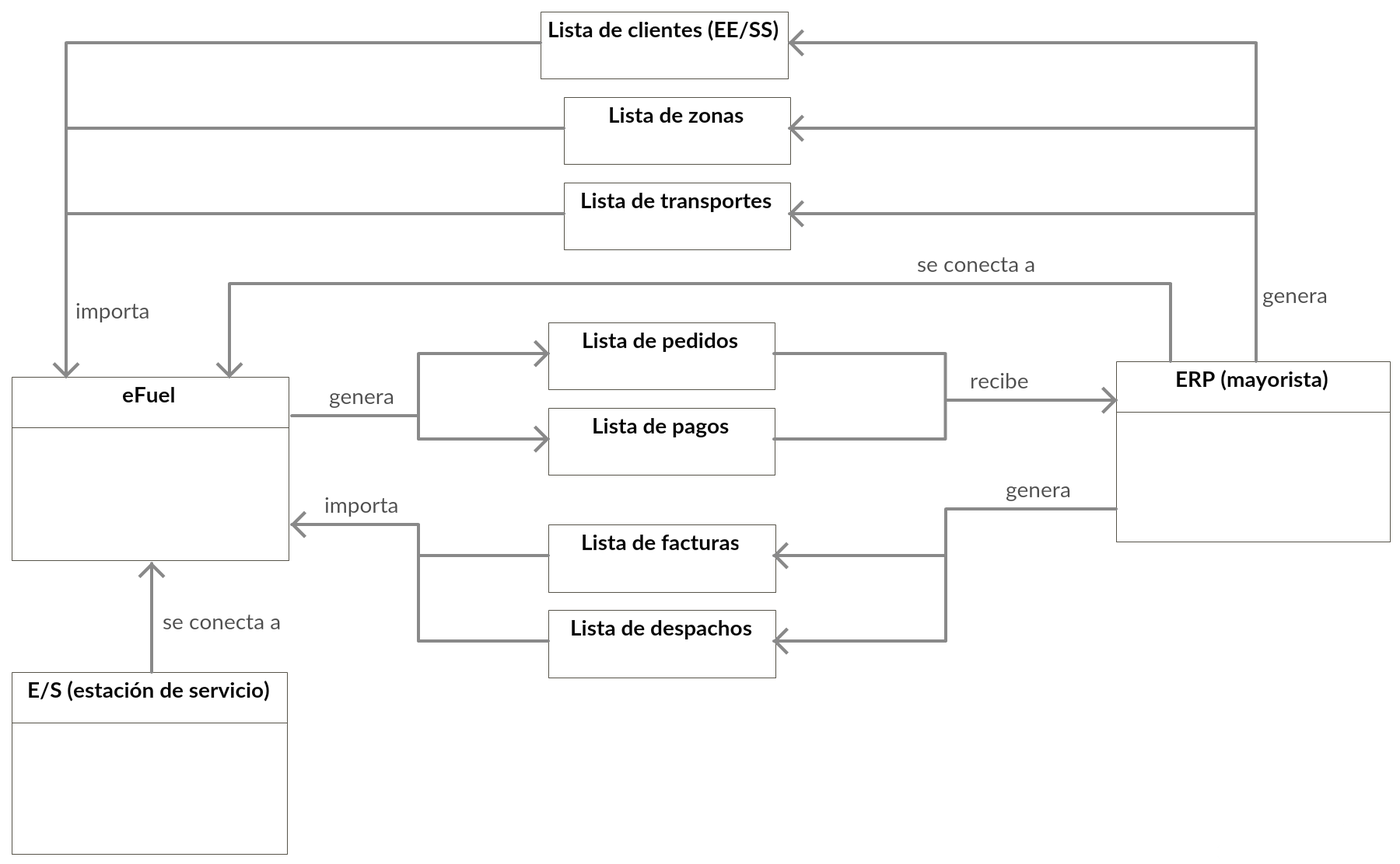
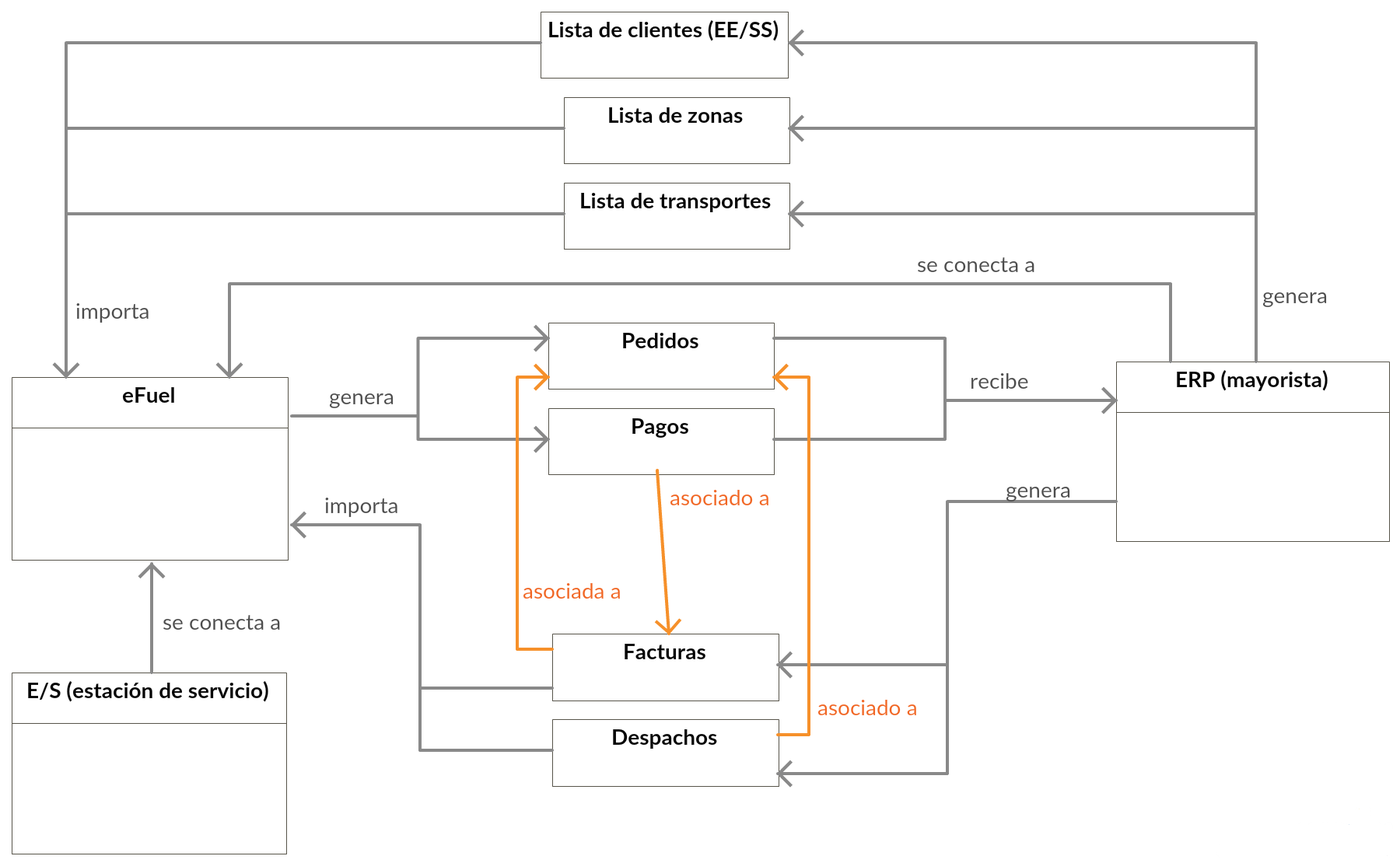
adelante

diff --git a/libro/capitulo-5.tex b/libro/capitulo-5.tex
@@ -1,25 +1,58 @@
 \chapter{Desarrollo} \label{development}
-En este capítulo se describe el desarrollo del proyecto. El desarrollo se divide en 7 fases: una fase de inducción donde el pasante se familiarizó con las herramientas y tecnologías necesarias para realizar el proyecto, 6 Iteraciones de desarrollo y una última Iteración de documentación del proyecto.
+En este capítulo se describe la aplicación web eFuel con sus módulos y funcionalidades, luego se narra cómo fue el desarrollo del proyecto. El desarrollo se divide en 3 fases: una fase de inducción donde el pasante se familiarizó con las herramientas y tecnologías necesarias para realizar el proyecto, una fase de desarrollo que consta de 6 Iteraciones de Scrum y una última fase de documentación.
 
-Hay que destacar que la documentación de la arquitectura se realizó luego de culminado el desarrollo, al contrario de realizarla antes de empezar el desarrollo, que es lo que se considera como buena práctica. Esto generó algunos inconvenientes y retrasos que no permitieron la culminación del módulo de funcionalidad encargado de manejar los pagos y las facturas del sistema (ver la sección \ref{useCases} para los casos de uso desarrollados y no desarrollados). A continuación el detalle de cada fase e Iteración.
+A continuación la descripción de la aplicación seguido de las fases del desarrollo de la misma durante el proyecto de pasantía.
 
 \section{La aplicación web eFuel}
-El objetivo del proyecto es desarrollar una nueva versión de la aplicación web eFuel. La primera versión fue desarrollada hace más de 10 años utilizando Classic ASP, un motor de scripting para servidores cuya última versión fue desarrollada en el año 2000. Classic ASP fue reemplazada por ASP.NET en el año 2002, por esta razón se desea desarrollar una versión de la aplicación basada en tecnologías modernas como ASP.NET y Umbraco (que está basado en ASP.NET). La documentación de esta primera versión
+\subsection{Versión original de eFuel}
+Una primera versión de eFuel fue desarrollada por la empresa anteriormente y estaba  conformada por 4 módulos básicos:
 
-eFuel es una aplicación web que permite a las estaciones de servicio de combustible la colocación de sus pedidos al mayorista. La aplicación permite consultar información del estado de los pedidos (si fueron despachados y si fueron pagados), asociar facturas a pedidos y asociar pagos a facturas, también permite consultar información sobre otras entidades del dominio de negocio como clientes (estaciones de servicio), transportes disponibles según la zona del cliente, productos disponibles y sus precios. Además, permite importar y exportar información para intercambiar con el sistema ERP del mayorista y, de esta manera, servir como sistema de apoyo para este.
+\begin{itemize}
+    \item \emph{Seguridad}: controlaba el acceso a laaplicación y sus datos.
+    \item \emph{Pedidos}: inserción de pedidos de combustible.
+    \item \emph{Pagos}: operaba como auxiliar contable del sistema de facturación interno de la organización (mayorista). 
+    \item \emph{Datos}: ofrecía la posibilidad de activar y desactivar registros correspondientes a clientes, productos y otros parámetros no disponibles en el ERP de la organización. Adicionalmente poseía una bitácora que registraba las operaciones realizadas en el sistema.
+\end{itemize}
 
-A continuación se presenta una visión general de la estructura de eFuel.
+Esta versión fue desarrollada hace más de 10 años utilizando Classic ASP, un motor de scripting para servidores cuya última versión fue desarrollada en el año 2000. Classic ASP fue reemplazada por ASP.NET en el año 2002, por esta razón no se pudo replicar la instalación de esta versión.
 
-\section{Inducción}
+Para este proyecto se desea desarrollar una versión de la aplicación web eFuel basada en tecnologías modernas como ASP.NET y Umbraco. Se usaron documentos de la versión original para guiar el desarrollo de la nueva versión de eFuel, especialmente en el diseño de las entidades de la base datos y en las funcionalidades generales (módulos) del sistema.
+
+\subsection{Nueva versión de eFuel}
+La nueva versión de eFuel desarrollada para este proyecto es una aplicación web que permite a las estaciones de servicio de combustible la colocación de sus pedidos al mayorista. La aplicación permite consultar información del estado de los pedidos (si fueron despachados y si fueron pagados), asociar facturas a pedidos y asociar pagos a facturas, también permite consultar información sobre otras entidades del dominio de negocio como clientes (estaciones de servicio), transportes disponibles según la zona del cliente, productos disponibles y sus precios. Además, permite importar y exportar información para intercambiar con el sistema ERP del mayorista y, de esta manera, servir como sistema de apoyo para este.
+
+\subsubsection{Módulos de funcionalidad}
+El sistema se puede descomponer en 4 módulos de funcionalidad: Pedidos, Pagos, Administración y Seguridad. A continuación una breve descripción de las funcionalidades de cada módulo:
+
+\begin{itemize}
+    \item \emph{Pedidos}: módulo para la gestión de pedidos. Al crear un pedido se brinda la facilidad de seleccionar rápidamente la combinación de cliente-fecha-turno-transporte-productos. También permite mostrar un listado de los pedidos, filtrar la lista por cliente, transporte, rango de fecha o estado, y luego exportarla como un archivo de Excel. 
+    \item \emph{Pagos}: módulo para la gestión de pagos y facturas. Con este módulo se pueden importar facturas desde un archivo de Excel generado por el sistema ERP del mayorista, estas se asocian inmediatamente con un pedido. También se pueden gestionar los pagos, asociar pagos a facturas y exportarlos a un archivo de Excel.
+    \item \emph{Administración}: módulo para la gestión de clientes, transportes, productos, zonas y turnos. Esto incluye creación, edición, consulta, listado, importación y eliminación de estas entidades del sistema.
+    \item \emph{Seguridad}: este módulo controla el acceso a la aplicación para garantizar que únicamente las personas autorizadas puedan consultar los datos y realizar las operaciones que les corresponden. Se pueden crear y editar miebros, así como modificar los permisos de cada uno.
+\end{itemize}
+
+En la figura \ref{fig:esquema_general_nuevo} se muestra el esquema general del sistema.
+
+\begin{figure}[ht]
+    \includegraphics[width=\textwidth]{esquema_general_nuevo.png}
+    \caption{Esquema general de los módulos de funcionalidad}
+    \label{fig:esquema_general_nuevo}
+    \centering
+\end{figure}
+
+Uno de los objetivos de la aplicación es servir como sistema de apoyo a los ERP de los mayoristas. Los sistemas ERP llevan el control de todas las entidades del negocio, entre estas están las estaciones de servicio, los transportes para los pedidos, los pedidos, las facturas, etc. La aplicación eFuel interactúa con el sistema ERP y le sirve de apoyo a este manteniendo un registro separado de las entidades pertinentes a la inserción y el pago de pedidos de combustible. Esta interacción se da a través de importaciones y exportaciones de datos entre estos sistemas para que estén sincronizados. En la figura \ref{fig:domain_model} se describe esta interacción con el sistema ERP.
+
+\section{Fases del desarrollo}
+\subsection{Fase de Inducción}
 Esta fase tuvo una duración de 1 semana, el pasante realizó varios tutoriales y utilizó varios recursos (guías de Umbraco, videos de ASP.NET, entre otros) proporcionados por la empresa para inducir los conocimientos técnicos necesarios para llevar a cabo el proyecto. Las herramientas investigadas fueron: Umbraco, ASP.NET, SQL Server y Visual Studio.
 
 Aunque esta fase estuvo exclusivamente dedicada al aprendizaje hay que remarcar que, durante toda la pasantía, el pasante adquirió nuevas destrezas que fueron necesarias y facilitaron el desarrollo del proyecto. Una vez culminada esta fase se empezó el desarrollo de la aplicación.
 
 
-\section{Desarrollo}
+\subsection{Fase de Desarrollo}
 Esta fase duró 16 semanas continuas y se llevaron a cabo 6 Iteraciones donde se desarrolló la aplicación. A continuación una descripción del trabajo realizado en cada iteración.
 
-\subsection{Análisis de requerimientos (1era Iteración)}
+\subsubsection{Análisis de requerimientos (1era Iteración)}
 Se definió el alcance inicial del proyecto, la arquitectura y la estructura de la base de datos. Además, se creó el repositorio de Git, el proyecto de Visual Studio y el sitio de Umbraco, y por otro lado, se eligió una plantilla de HTML para el \emph{look and feel} de la aplicación.
 
 \textbf{Actividades realizadas:}
@@ -37,7 +70,7 @@ Se definió el alcance inicial del proyecto, la arquitectura y la estructura de 
 
 \textbf{Duración:} 2 semanas.
 
-\subsection{Módulo de Administración (2da Iteración)}
+\subsubsection{Módulo de Administración (2da Iteración)}
 Se implementó la funcionalidad de manejo de las entidades principales de la aplicación: clientes, productos, transportes, zonas, turnos, pedidos, facturas y cobros. Para esto se implementó una interfaz en el back end de Umbraco usando Fluidity y se definieron los Doctypes y Datatypes de las entidades a ser almacenadas como contenido de Umbraco. También se empezó el desarrollo del front end de la aplicación. Al finalizar esta Iteración se tuvo una forma de manejar las entidades del sistema, ya sea a través del árbol de contenido de Umbraco o a través de la interfaz de Fluidity.
 
 \textbf{Actividades realizadas:}
@@ -50,7 +83,7 @@ Se implementó la funcionalidad de manejo de las entidades principales de la apl
 
 \textbf{Duración:} 3 semanas.
 
-\subsection{Módulo de Pedidos (3ra Iteración)}
+\subsubsection{Módulo de Pedidos (3ra Iteración)}
 Esta Iteración estuvo dedicada al desarrollo de la funcionalidad referente a los pedidos de combustible. Se desarrolló el listado de pedido con filtros, el formulario de creación de pedidos y la exportación de la lista de pedidos.
 
 \textbf{Actividades realizadas:}
@@ -63,7 +96,7 @@ Esta Iteración estuvo dedicada al desarrollo de la funcionalidad referente a lo
 
 \textbf{Duración:} 2 semanas.
 
-\subsection{Refactorización (4ta Iteración)}
+\subsubsection{Refactorización (4ta Iteración)}
 En esta Iteración se determinó que la implementación de la funcionalidad desarrollada hasta ahora no estaba siguiendo la estructura de la solución de Visual Studio, es decir, los controladores no estaban bien organizados según el patrón MVC (como lo implementa ASP.NET) y que además había funcionalidad que debería estar implementada en \verb|EF_API| pero que estaba en \verb|EF_Core| y usando el tipo de controlador incorrecto. Esto se debió a un a falta de comunicación entre el dueño del producto y el pasante. Se realizaron las correcciones necesarias, esto tomó tiempo que no pudo ser invertido en el desarrollo de unos de los módulos planteados en el plan de trabajo original (Módulo de conciliación de pagos), en consecuencia, los casos de uso de este módulo quedaron parcialmente implementados.
 
 \textbf{Actividades realizadas:}
@@ -75,7 +108,7 @@ En esta Iteración se determinó que la implementación de la funcionalidad desa
 
 \textbf{Duración:} 3 semanas.
 
-\subsection{Continuación con el Módulo de Pedidos (5ta Iteración)}
+\subsubsection{Continuación con el Módulo de Pedidos (5ta Iteración)}
 En esta Iteración se continuó el desarrollo de la funcionalidad referente a los pedidos del sistema y se mejoraron algunos aspectos implementados en las otras Iteraciones.
 
 \textbf{Actividades realizadas:}
@@ -87,7 +120,7 @@ En esta Iteración se continuó el desarrollo de la funcionalidad referente a lo
 
 \textbf{Duración:} 3 semanas.
 
-\subsection{Módulo de Manejo de Usuarios e importación (6ta Iteración)}
+\subsubsection{Módulo de Manejo de Usuarios e importación (6ta Iteración)}
 Esta fue la última Iteración de desarrollo, en ella se desarrollo el módulo de manejo de usuarios y se implementó la funcionalidad de importación de algunas entidades. También se mejoraron todos los aspectos que fueron posibles del código.
 
 \textbf{Actividades realizadas:}
@@ -101,5 +134,22 @@ Esta fue la última Iteración de desarrollo, en ella se desarrollo el módulo d
 
 \textbf{Duración:} 3 semanas.
 
-\section{Documentación} \label{documentation}
-Esta fase duró el resto de las 20 semanas totales de la pasantía. En ella se documentó el estado final de la aplicación, se elaboró un Documento de Arquitectura de Software donde se detallan los componentes y casos de uso desarrollados de la aplicación y, además, se elaboró una guía de instalación de eFuel (ver apéndice \ref{installation}). En total esto llevo 3 semanas de la pasantía y algunas extra después de culminada.
+\subsection{Fase de Documentación} \label{documentation}
+Esta fase duró el resto de las 20 semanas totales de la pasantía. En ella se documentó el estado final de la aplicación, se elaboró un Documento de Arquitectura de Software donde se detallan los componentes y casos de uso desarrollados de la aplicación y, además, se elaboró una guía de instalación de eFuel (ver apéndice \ref{installationGuide}). En total esto llevo 3 semanas de la pasantía y algunas extra después de culminada.
+
+\subsubsection{Arquitectura del sistema}
+A continuación se muestran el Modelo de Dominio y el Diagrama de Componentes del sistema que ayudan a describir la arquitectura del mismo y que fueron parte del trabajo realizado durante la fase de documentación (ver sección \ref{documentation}). El Modelo de Dominio ayuda a entender la relación de eFuel con el sistema ERP del mayorista. Por otro lado, el Diagrama de Componentes refleja como fue utilizado el patrón MVC en la arquitectura del sistema. Para una decripción detallada de la arquitectura del sistema referirse al anexo \ref{das}, donde se encuentra el Documento de Arquitectura de Software de eFuel.
+
+\begin{figure}[H]
+    \includegraphics[width=\textwidth]{domain_model.png}
+    \caption{Modelo de dominio de eFuel}
+    \label{fig:domain_model}
+    \centering
+\end{figure}
+
+\begin{figure}[H]
+    \includegraphics[width=\textwidth]{component_diagram.png}
+    \caption{Diagrama de Componentes de eFuel}
+    \label{fig:component_diagram}
+    \centering
+\end{figure}

diff --git a/libro/capitulo-6.tex b/libro/capitulo-6.tex
@@ -1,62 +1,119 @@
 \chapter{Resultados} \label{results}
-En este capítulo se presenta el estado en el que quedó la aplicación eFuel al finalizar el desarrollo. Se completó el 92\% de los casos de uso que tiene el sistema actualmente. No se realizaron pruebas de ningún tipo salvo por demostraciones del funcionamiento en una instalación local, sin embargo, el dueño del producto quedó satisfecho con el trabajo realizado y se espera que el desarrollo continue en el futuro. A continuación se presenta el diagrama de casos de uso y un resumen de la funcionalidad que posee el sistema actualmente. Además, se presentan 2 diagramas para ayudar a describir la estructura del sistema: Modelo de Dominio y el Diagrama de Componentes. Para información detallada del funcionamiento e implementación del sistema referirse al Documento de Arquitectura de Software (anexo \ref{das}).
+En este capítulo se presenta el estado en el que quedó la aplicación eFuel al finalizar el desarrollo.
 
-\section{Casos de Uso} \label{useCases}
-En los siguientes diagramas se muestran en color verde los casos de uso que fueron implementados.
+Se completó el xx\% de los casos de uso que tiene el sistema actualmente. Esto se debió a varios factores. Primero...
 
-\begin{figure}[H]
-    \includegraphics[width=\textwidth]{cu_admin_implementados.png}
-    \caption{Casos de Uso back end (\emph{admin})}
-    \label{fig:cu_admin_implementados}
-    \centering
-\end{figure}
-
-\begin{figure}[H]
-    \includegraphics[width=\textwidth]{cu_customer_staff_implementados.png}
-    \caption{Casos de Uso front end (\emph{customer} y \emph{staff})}
-    \label{fig:cu_customer_staff_implementados}
-    \centering
-\end{figure}
+No se realizaron pruebas unitarias ni de integración debido a los atrasos con el desarrollo de las funcionalidades principales. Se determinó que las pruebas no eran prioritarias, era preferible implementar la mayor cantidad de funcionalidades restantes, ésta fue una decisión tomada en conjunto con el tutor industrial. Sin embargo, si se realizaron demostraciones del funcionamiento en varias máquinas instalando el sitio localmente.
 
 \section{Estado actual de la aplicación}
-Como resultado del desarrollo del proyecto se obtuvo una aplicación web desarrollada nuevamente que funciona como un agregado a un sitio de Umbraco y que contiene, casi en su totalidad, las funcionalidades requeridas por el dueño del producto. No se ha desplegado la aplicación en un ambiente de producción, solo fue probada en varias instalaciones locales, a pesar de esto el dueño del producto quedó satisfecho con los resultados obtenidos. Sigue un resumen de la funcionalidad que tiene la aplicación, dividido en partes: funcionalidad en el front end de eFuel y funcionalidad en el back end de Umbraco.
+Como resultado del desarrollo del proyecto se obtuvo una versión funcional de la aplicación web eFuel que abarca el xx\% de los casos de uso estipulados. Este alcance fue acordado por la empresa y el pasante, la empresa quedó satisfecha con el trabajo realizado. En la tabla \ref{tab:casosDeUso} se muestranlos casos de uso del sistema y se resaltan los que fueron implementados.
+
+\newcounter{magicrownumbers}
+\newcommand\rownumber{\stepcounter{magicrownumbers}\arabic{magicrownumbers}}
+
+\begin{longtable}{ | l | l | c | }
+    \hline
+    % \rowcolor{gray!30}
+    \multicolumn{1}{|c|}{ID del Caso de Uso} &
+    \multicolumn{1}{|c|}{Caso de Uso} &
+    \multicolumn{1}{|c|}{Actor} \\
+    \hhline{===}
+    \endhead
+
+    CU-\rownumber & Iniciar sesión (Umbraco) & Admin \\ \hline
+    CU-\rownumber & Consultar lista de miembros & Admin \\ \hline
+    CU-\rownumber & Gestionar miembro (CRUD) & Admin \\ \hline
+    CU-\rownumber & Asignar cliente/s a miembro & Admin \\ \hline
+    CU-\rownumber & Remover cliente/s de miembro & Admin \\ \hline
+    CU-\rownumber & Cambiar permisos de miembro & Admin \\ \hline
+
+    CU-\rownumber & Gestionar contenido & Admin \\ \hline
+    CU-\rownumber & Consultar lista de clientes & Admin \\ \hline
+    CU-\rownumber & Gestionar cliente (CRUD) & Admin \\ \hline
+    CU-\rownumber & Consultar lista de productos & Admin \\ \hline
+    CU-\rownumber & Gestionar producto (CRUD) & Admin \\ \hline
+    CU-\rownumber & Consultar lista de transportes & Admin \\ \hline
+    CU-\rownumber & Gestionar transportes (CRUD) & Admin \\ \hline
+    CU-\rownumber & Consultar lista de zonas & Admin \\ \hline
+    CU-\rownumber & Gestionar zonas (CRUD) & Admin \\ \hline
+
+    CU-\rownumber & Gestionar transacciones & Admin \\ \hline
+    CU-\rownumber & Consultar lista de registros & Admin \\ \hline
+    CU-\rownumber & Gestionar registro (CRUD) & Admin \\ \hline
+    CU-\rownumber & Consultar lista de pedidos & Admin \\ \hline
+    CU-\rownumber & Gestionar pedido (CRUD) & Admin \\ \hline
+    CU-\rownumber & Consultar lista de detalles de pedidos & Admin \\ \hline
+    CU-\rownumber & Gestionar detalle de pedido (CRUD) & Admin \\ \hline
+    CU-\rownumber & Consultar lista de facturas & Admin \\ \hline
+    CU-\rownumber & Gestionar factura (CRUD) & Admin \\ \hline
+    CU-\rownumber & Importar lista de facturas & Staff \\ \hline
+    CU-\rownumber & Reportar pago & Customer, Staff \\ \hline
+    CU-\rownumber & Consultar lista de cobros & Admin \\ \hline
+    CU-\rownumber & Gestionar cobro (CRUD) & Admin \\ \hline
+    CU-\rownumber & Consultar lista de detalles de cobros & Admin \\ \hline
+    CU-\rownumber & Gestionar detalle de cobro (CRUD) & Admin \\ \hline
+
+    CU-\rownumber & Iniciar sesión (eFuel) & Customer, Staff \\ \hline
+    CU-\rownumber & Consultar lista de pedidos & Customer, Staff \\ \hline
+    CU-\rownumber & Consultar pedido & Customer, Staff \\ \hline
+    CU-\rownumber & Filtrar lista de pedidos & Customer, Staff \\ \hline
+    CU-\rownumber & Exportar lista de pedidos & Customer, Staff \\ \hline
+    CU-\rownumber & Crear pedido & Customer, Staff \\ \hline
+    CU-\rownumber & Seleccionar cliente & Customer, Staff \\ \hline
+    CU-\rownumber & Seleccionar fecha & Customer, Staff \\ \hline
+    CU-\rownumber & Seleccionar turno  & Customer, Staff \\ \hline
+    CU-\rownumber & Seleccionar transporte  & Customer, Staff \\ \hline
+    CU-\rownumber & Seleccionar productos & Customer, Staff \\ \hline
+
+    CU-\rownumber & Consultar lista de facturas & Customer, Staff \\ \hline
+
+    CU-\rownumber & Consultar lista de clientes & Customer, Staff \\ \hline
+    CU-\rownumber & Consultar cliente & Customer, Staff \\ \hline
+    CU-\rownumber & Consultar pedidos de cliente & Customer, Staff \\ \hline
+    CU-\rownumber & Importar lista de clientes & Staff \\
+    \hline
+
+    CU-\rownumber & Consultar lista de transportes & Customer, Staff \\ \hline
+
+    CU-\rownumber & Importar lista de transportes & Staff \\ \hline
+
+    CU-\rownumber & Consultar lista de zonas & Customer, Staff \\ \hline
+
+    CU-\rownumber & Importar lista de zonas & Staff \\
+    \hline
+
+    CU-\rownumber & Importar lista de despachos & Staff \\
+    \hline
+
+    CU-\rownumber & Reportar pagos & Customer, Staff \\
+    \hline
+
+    \caption{Resumen de casos de uso eFuel (en verde los implementados)}
+    \label{tab:casosDeUso}
+\end{longtable}
+
+La aplicación desarrollada nuevamente que funciona como un agregado a un sitio de Umbraco. No se ha desplegado en un ambiente de producción, solo fue probada en varias instalaciones locales, a pesar de esto el dueño del producto quedó satisfecho con los resultados obtenidos. Sigue un resumen de la funcionalidad por módulos desarrollada, dividido en partes: funcionalidad en el front end de eFuel y funcionalidad en el back office de Umbraco.
 
 \subsection{Funcionalidad en el front end}
 \begin{itemize}
-    \item Creación de pedidos según la disponibilidad de transportes, fechas y turnos para un cliente.
-    \item Listado de pedidos con filtros por cliente, rango de fecha, transporte y estado.
-    \item Exportación de un listado de pedidos con filtros aplicados.
-    \item Listado de clientes, transportes, zonas y facturas.
-    \item Vista de detalles de un cliente.
-    \item Importación de lista de transportes y zonas.
+    \item \emph{Seguridad}: inicio de sesión con credenciales.
+    
+    \item \emph{Pedidos}: creación de pedidos según la disponibilidad de transportes, fechas y turnos para un cliente; listado de pedidos con filtros por cliente, rango de fecha, transporte y estado; exportación de un listado de pedidos con filtros aplicados.
+
+    \item \emph{Pagos}: listado de facturas.
+    
+    \item \emph{Administración}: listado de clientes, transportes y zonas; vista de detalles de un cliente; importación de lista de transportes y zonas.
 \end{itemize}
 
-\subsection{Funcionalidad en el back end de Umbraco}
+\subsection{Funcionalidad en el back office de Umbraco}
 \begin{itemize}
-    \item Listado de clientes, transportes, zonas, turnos y productos.
-    \item Administración (creación, edición, vista de detalles y eliminación) de clientes, transportes, zonas, turnos y productos.
-    \item Listado de pedidos, facturas y cobros.
-    \item Administración (creación, edición, vista de detalles y eliminación) de pedidos, facturas y cobros.
-    \item Administración (creación, edición, detalles, eliminación y permisos) de miembros de eFuel.
+    \item \emph{Seguridad}: inicio de sesión con credenciales; administración (creación, edición, detalles, eliminación y permisos) de miembros de eFuel.
+    
+    \item \emph{Pedidos}: listado de pedidos; administración (creación, edición, vista de detalles y eliminación) de pedidos.
+    
+    \item \emph{Pagos}: listado de facturas y cobros; administración (creación, edición, vista de detalles y eliminación) de facturas y cobros.
+    
+    \item \emph{Administración}: listado de clientes, transportes, zonas, turnos y productos; administración (creación, edición, vista de detalles y eliminación) de clientes, transportes, zonas, turnos y productos.
 \end{itemize}
 
 En el anexo \ref{vistas} se encuentran las capturas de pantalla de las funcionalidades enumeradas en esta sección.
-
-\section{Arquitectura del sistema}
-A continuación se muestran el Modelo de Dominio y el Diagrama de Componentes del sistema que ayudan a describir la arquitectura del mismo y que fueron parte del trabajo realizado durante la fase de documentación (ver sección \ref{documentation}). El Modelo de Dominio ayuda a entender la relación de eFuel con el sistema ERP del mayorista. Por otro lado, el Diagrama de Componentes refleja como fue utilizado el patrón MVC en la arquitectura del sistema. Para una decripción detallada de la arquitectura del sistema referirse al anexo \ref{das}, donde se encuentra el Documento de Arquitectura de Software de eFuel.
-
-\subsection{Modelo de Dominio}
-\begin{figure}[H]
-    \includegraphics[width=\textwidth]{domain_model.png}
-    \caption{Modelo de Dominio de eFuel}
-    \label{fig:domain_model}
-    \centering
-\end{figure}
-
-\subsection{Diagrama de Componentes}
-\begin{figure}[H]
-    \includegraphics[width=\textwidth]{component_diagram.png}
-    \caption{Diagrama de Componentes de eFuel}
-    \label{fig:domain_model}
-    \centering
-\end{figure}

diff --git a/libro/conclusion.tex b/libro/conclusion.tex
@@ -1,12 +1,11 @@
 \chapter*{Conclusiones y Recomendaciones}
-Las conclusiones a continuación resumen los resultados y hallazgos más relevantes obtenidos durante el proyecto de pasantía:
+Durante el desarrollo hubo algunos retrasos y refactorizaciones en el código (de hecho no se pudo completar la funcionalidad del módulo de conciliación de pagos), esto se debe a 2 factores: la falta de documentación formal al inicio del proyecto y a algunas fallas de comunicación por parte del duaño del producto y del pasante. Sabiendo esto, hay que resaltar la importancia de generar documentos que ayuden a plasmar una visión del sistema para que todos los actores tengan claro qué hace el sistema y cómo se espera que lo haga, de esta manera el desarrollo será más fluido.
 
-\begin{itemize}
-    \item Se desarrolló una versión funcional de la aplicación web eFuel que abarca el 92\% de los casos de uso estipulados. Este alcance fue acordado por la empresa y el pasante, la empresa quedó satisfecha con el trabajo realizado.
-    \item La aplicación funciona como un agregado a un sitio de Umbraco genérico, es decir, si se tiene un sitio un sitio de Umbraco montado en un servidor se puede instalar eFuel junto con este sitio sin interferir con el funcionamiento de este.
-    \item Durante el desarrollo hubo algunos retrasos y refactorizaciones en el código (de hecho no se pudo completar la funcionalidad del módulo de conciliación de pagos), esto se debe a 2 factores: la falta de documentación formal al inicio del proyectoy a algunas fallas de comunicación por parte del duaño del producto y del pasante. Sabiendo esto, hay que resaltar la importancia de generar documentos que ayuden a plasmar una visión del sistema para que todos los actores tengan claro qué hace el sistema y cómo se espera que lo haga, de esta manera el desarrollo será más fluido.
-    \item Al enfrentarse con nuevas tecnologías y conceptos es importante saber consultar tanto fuentes de información (documentación, libros, etc) como al equipo de trabajo, ya que muchas veces otra persona del equipo ha resolvido problemas similares o tiene experiencia con las tecnologías utilizadas y puede ayudar a avanzar con el desarrollo de una manera importante. Hay que saber cómo y dónde buscar información.
-\end{itemize}
+Por otro lado, al enfrentarse con nuevas tecnologías y conceptos es importante saber consultar tanto fuentes de información (documentación, libros, etc) como al equipo de trabajo, ya que muchas veces otra persona del equipo ha resolvido problemas similares o tiene experiencia con las tecnologías utilizadas y puede ayudar a avanzar con el desarrollo de una manera importante. Hay que saber cómo y dónde buscar información.
+
+El pasante obtuvo muchas enseñanzas tanto a nivel tecnológico como a nivel personal, sobre todo con respecto a lo que implica el proceso de desarrollo de software desde la concepción hasta la entrega del producto. La documentación y la planificación son integrales para poder crear un producto de buena calidad y en tiempos deseables, se debe tener siempre en mente que muchos componentes del software cambian a lo largo del desarrollo, también es importante saber cuando se debe pedir ayuda a otras personas del equipo para poder agilizar el desarrollo de la mejor manera posible.
+
+El proyecto de pasantía fue una oportunidad para poner en práctica muchos conceptos y teorías aprendidas en la carrera, para reforzar y complementarlos, para entender por qué son importantes pero también que la teoría y la práctica pueden ser muy diferentes y es el trabajo del ingeniero reconciliar las 2 para mejorar siempre los procesos de desarrollo y sus resultados.
 
 Como recomendaciones se tiene lo siguiente:
 \begin{itemize}
@@ -16,7 +15,3 @@ Como recomendaciones se tiene lo siguiente:
     \item Proveer más opciones de gestión de datos en el front end de la aplicación para que el usuario no deba alternar entre la interfaz de Umbraco y el front end de eFuel.
     \item Tomar pasos para que la aplicación sea más fácil de instalar en un sitio de Umbraco, apuntar a hacer la aplicación un paquete de Umbraco.
 \end{itemize}
-
-El pasante obtuvo muchas enseñanzas tanto a nivel tecnológico como a nivel personal, sobre todo con respecto a lo que implica el proceso de desarrollo de software desde la concepción hasta la entrega del producto. La documentación y la planificación son integrales para poder crear un producto de buena calidad y en tiempos deseables, se debe tener siempre en mente que muchos componentes del software cambian a lo largo del desarrollo, también es importante saber cuando se debe pedir ayuda a otras personas del equipo para poder agilizar el desarrollo de la mejor manera posible.
-
-El proyecto de pasantía fue una excelente oportunidad para poner en práctica muchos conceptos y teorías aprendidas en la carrera, para reforzar y complementarlos, para entender por qué son importantes pero también que la teoría y la práctica pueden ser muy diferentes y es el trabajo del ingeniero reconciliar las 2 para mejorar siempre los procesos de desarrollo y sus resultados.

diff --git a/libro/introduccion.tex b/libro/introduccion.tex
@@ -6,10 +6,10 @@ El proyecto presente, realizado en el marco de los Cursos de Cooperación Técni
 El proyecto se llevó a cabo en la empresa iKêls Consulting, la cual se especializa en el desarrollo de aplicaciones y sitios web para el sector corporativo utilizando Umbraco como la plataforma principal de manejo de  contenido (CMS). Umbraco es una herramienta de código abierto desarrollada en Dinamarca usando el lenguaje C\# y ASP.NET para sistemas Windows de Microsoft que cuenta con una gran aceptación a nivel mundial y una amplia comunidad de desarrolladores. Entre los activos de la empresa se encuentra una aplicación web (\emph{eFuel}) que permite a las estaciones de servicio de combustible la colocación de sus pedidos al mayorista. Dicha aplicación fue desarrollada hace más de 10 años usando tecnología Classic ASP y VBScript.
 
 \section*{Planteamiento del problema}
-Las empresas de distribución de combustible al mayor manejan una gran cantidad de operaciones diarias, entre las transacciones más comunes están realizar pedidos y se conciliar pagos. Un mayorista de combustible puede tener muchas estaciones de servicio distribuidas a lo largo de un territorio extenso y cada estación de servicio debe manejar sus pedidos y contabilidad independientemente. Resulta complejo manejar y sincronizar este volumen de transacciones entre varias estaciones de servicio, la aplicación web eFuel busca facilitar estas operaciones diarias ofreciendo servicios de creación de pedidos y conciliación de pagos de una forma accesible y sencilla, y que además permita monitorear cada transacción para así servir como sistema de apoyo a los sistemas de gestión de recursos de los mayoristas.
+Las empresas de distribución de combustible deben atender diariamente un volumen importante de pedidos a lo largo del territorio nacional. Este proceso involucra a múltiples actores, tiene un alto impacto en la sociedad y su coordinación es una labor tediosa y delicada que requiere personal especializado. Se requiere reducir los errores humanos, mejorar la eficiencia y aumentar la calidad y oportunidad de la información asociada al proceso.
 
 \section*{Justificación e importancia}
-
+Con los procesos manuales tradicionales, el proceso de pedidos de combustible consume mucho tiempo y esfuerzo, está sujeto a muchos errores debido a las múltiples variables involucradas y no tiene flexibilidad para responder con rapidez a los cambios propios de la demanda de los clientes (EE/SS). Debido al alto impacto que tiene en la dinámica diaria de las personas y negocios, la inversión en herramientas de apoyo producirá mejoras inmediatas en todos los aspectos del proceso.
 
 \section*{Objetivo general}
 Desarrollar una nueva versión de la aplicación web eFuel integrada con la plataforma de manejo de contenido (CMS) Umbraco para el ingreso y administración de pedidos de combustible (cisternas).

diff --git a/libro/capitulo-3.tex b/libro/capitulo-3.tex
@@ -22,8 +22,13 @@ En este capítulo se definen las tecnologías y herramientas utilizadas para el 
 
     Cabe destacar que la empresa tiene varios años de experiencia desarrollando aplicaciones web con Umbraco y varios de sus empleados tienen certificaciones y un nivel alto de conocimiento de la plataforma lo cual facilitó el desarrollo del sistema. La aplicación web eFuel fue desarrollada con Umbraco v7.10.
 
+    \subsubsection{Conceptos importantes de Umbraco}
+    \paragraph{Back Office} es la interfaz de creación y edición de contenido de un sitio de Umbraco, se accede a ella a través de una ruta especial y se deben poseer credenciales especiales para poder entrar. El back office de Umbraco se divide en secciones, por defecto estas son: Content (gestión de contenido), Media (gestión de archivos multimedia del sitio), Settings (gestión de los Document Types del sitio, plantillas del front end, scripts, los idiomas, el diccionario y los tipos de archivos de multimedia), Debeloper (gestión de paquetes, macros y Data Types), Users (gestión de usuarios con credenciales para entrar al back office) y Members (gestión de usuarios con credenciales para entrar al front end).
+    \paragraph{Document Type (Doctype)} es la definición del contenido de un sitio de Umbraco. Es un concepto análogo a la definición de una clase en un lenguaje orientado a objetos, no son el contenido sino la definición de su estructura y de sus propiedades.
+    \paragraph{Data Type} determinan la estructura y el tipo de información que puede ir en una propiedad de un Doctype. Por ejemplo, si un Doctype "Producto" tiene una propiedad "Precio", entonces un Data Type apropiado sería "Numeric", esto solo permitiría que esa propiedad tenga valores numéricos.
+
     \subsubsection{Paquetes de Umbraco}
-    \paragraph{Fluidity} sirve para construir interfaces de usuario para estructuras de datos personalizadas. En el proyecto se usa como interfaz con las entidades de eFuel que se encuantran definidas directamente en la base de datos y no como un Doctype de Umbraco.
+    \paragraph{Fluidity} sirve para construir interfaces de usuario para estructuras de datos personalizadas, agrega una sección al back office llamada "Database". En el proyecto se usa como interfaz con las entidades de eFuel que se encuantran definidas directamente en la base de datos y no como un Doctype de Umbraco.
     \paragraph{uSync} es una herramienta que guarda la estructura de una instalación de un sitio de Umbraco para que pueda ser replicada en otra instalación.
 
     \subsection{Bootstrap}

diff --git a/libro/capitulo-2.tex b/libro/capitulo-2.tex
@@ -5,7 +5,10 @@ En el presente capítulo se definen las bases teóricas sobre las cuáles se apo
     \subsection{CMS}
     Un CMS, por sus siglas en inglés \textit{Content Management System} (Sistema de Gestión de Contenidos), es una aplicación de software que provee algún nivel de automatización a las tareas de manejo de contenido. Un CMS permite a los usuarios crear nuevo contenido, editar contenido existente, y hacer el contenido accesible al público. \cite{cmsBarker}
 
-    Desde el punto de vista de un editor un CMS consta, básicamente, de 2 partes: una interfaz para la edición de contenido (referido como el \textit{back-end}, esto es, la capa de acceso a los datos de la aplicación) y una interfaz para mostrar el contenido publicado (referido como el \textit{front-end}, es decir, la capa de presentación de la aplicación).
+    Un CMS consta, básicamente, de 2 partes:
+    
+    \paragraph*{Back end o back office (en el caso de Umbraco)} es una interfaz para la edición de contenido, es la parte del sitio que permite crear y editar contenido.
+    \paragraph*{Front end} es una interfaz para mostrar el contenido publicado, lo que el usuario final conoce como la \emph{página web} como tal.
 
     El uso de un CMS facilita las tareas de mantenimiento y de generación de contenido, especialmente para usuarios que no tienen preparación técnica especial. Los usuarios de la aplicación eFuel serán, en su mayoría, personal sin conocimientos especializados en el área de computación, ésta es una de las razones por las cuales resulta conveniente desarrollar el sistema sobre un CMS.
 

diff --git a/libro/informe-pasantia.tex b/libro/informe-pasantia.tex
@@ -14,7 +14,9 @@
 
 % paquetes
 \usepackage[utf8]{inputenc}
-\usepackage{verbatim, acronym, amsmath, amsfonts, amssymb, float, pdfpages}
+\usepackage{ragged2e, indentfirst, longtable, tabu, float, hhline, makecell, multirow, array, verbatim, acronym, amsmath, amsfonts, amssymb, float, pdfpages}
+
+
 % \usepackage{hyperref}
 
 % estilo de las referencias

diff --git a/libro/apendice-b.tex b/libro/apendice-b.tex
@@ -1,2 +1,2 @@
-\chapter{GUÍA DE INSTALACIÓN EFUEL} \label{installation}
+\chapter{GUÍA DE INSTALACIÓN EFUEL} \label{installationGuide}
 \includepdf[pages=-]{../anexos/guia_de_instalacion.pdf}
